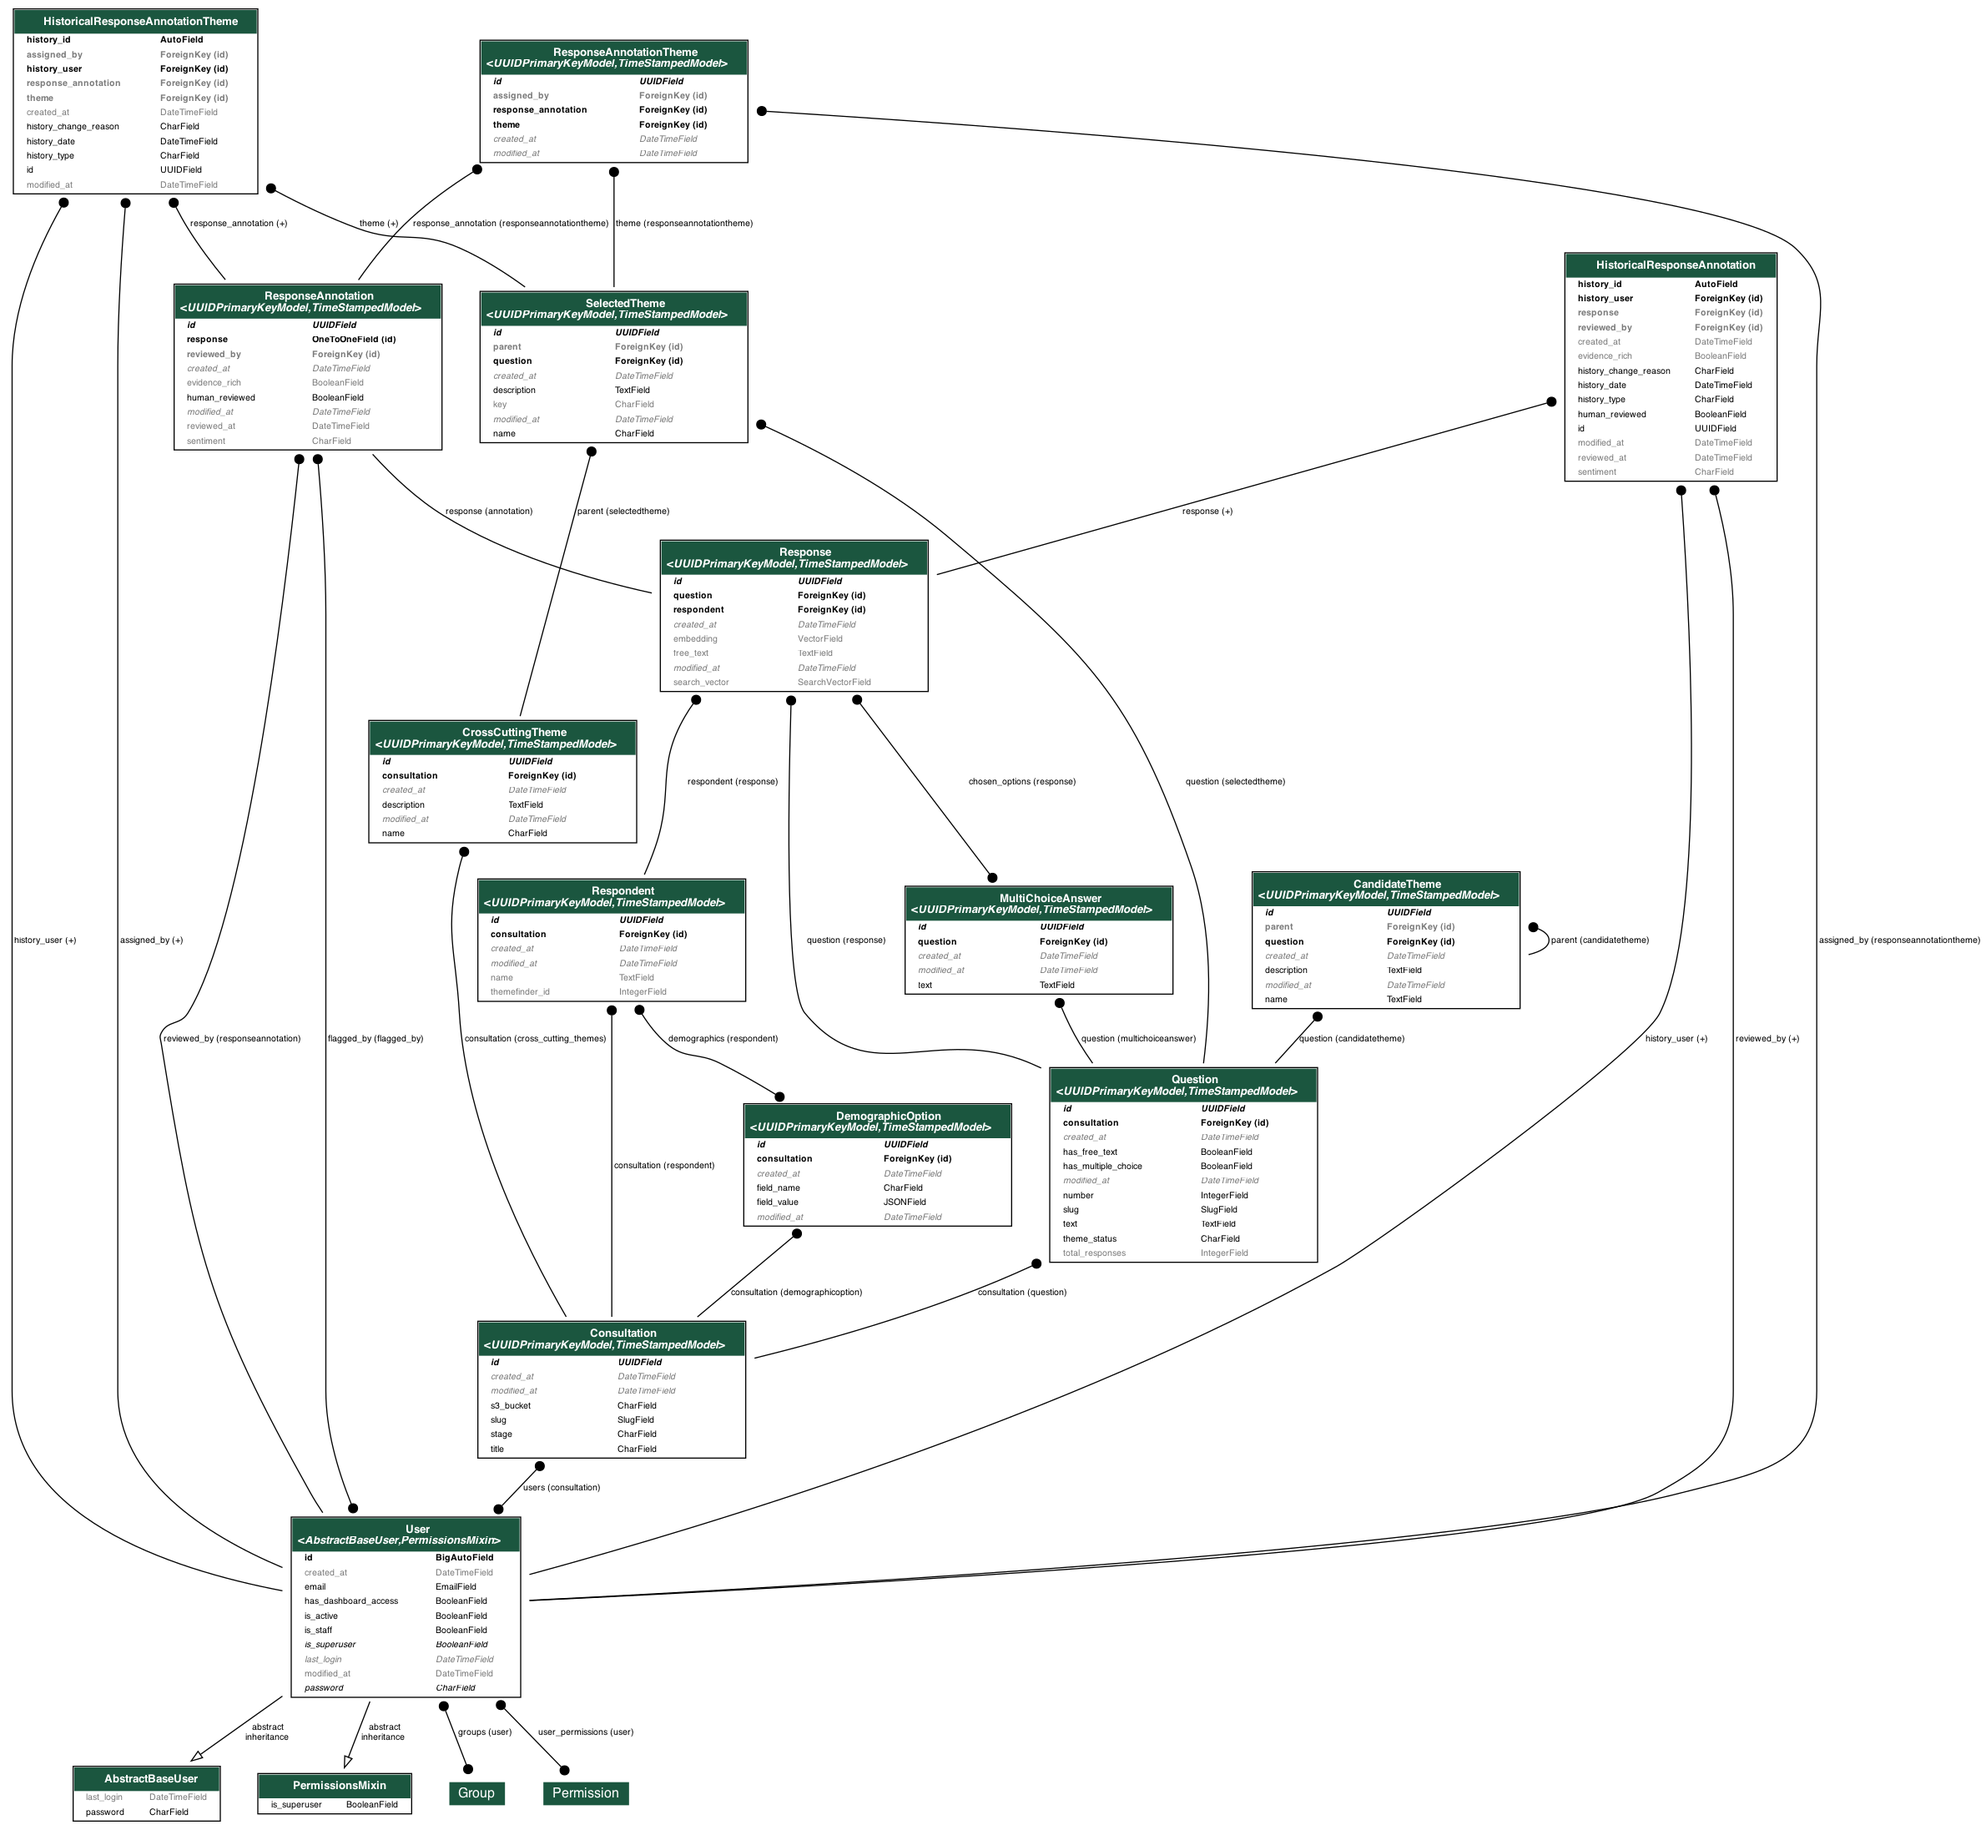
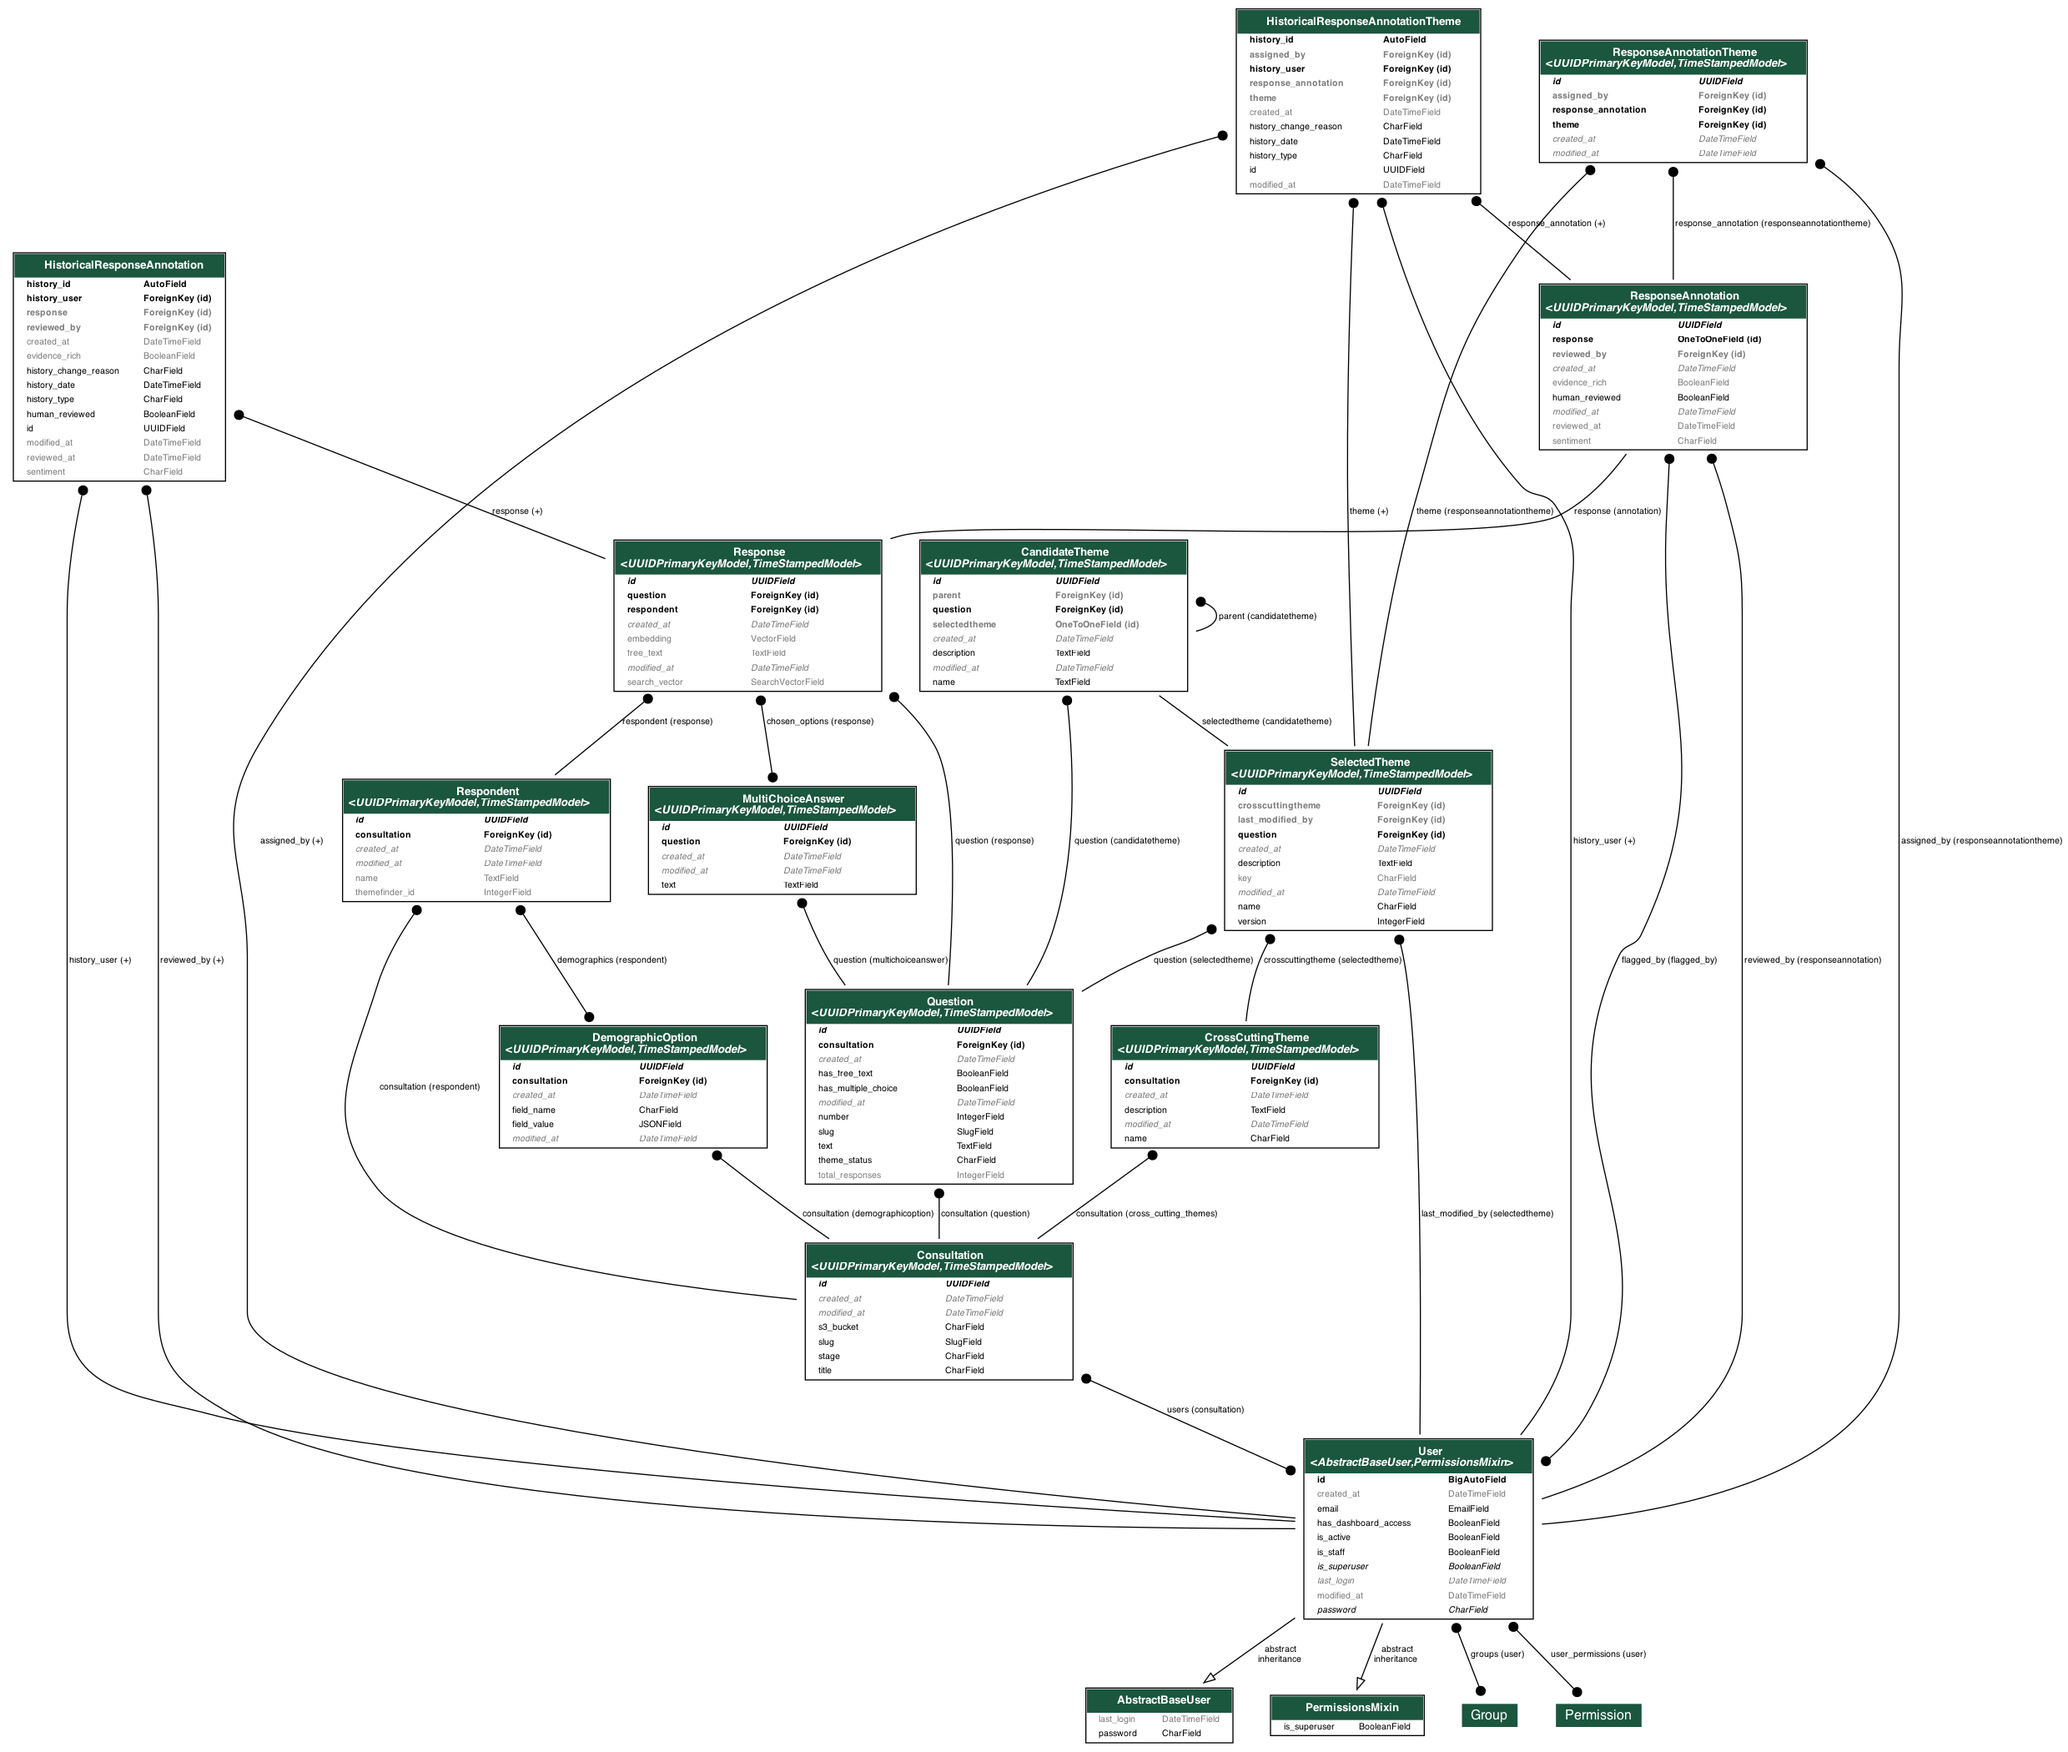
feat: Add new SelectedTheme fields to support Theme Sign Off
I have also added `selectedtheme` to the CandidateTheme model so
that it's easier to represent when a candidate theme is selected.
When the selected them is deselected (deleted from the database),
the `selectedtheme` will revert to null and that's how we can tell
when it's been selected or not.

diff --git a/consultation_analyser/consultations/models.py b/consultation_analyser/consultations/models.py
@@ -239,23 +239,6 @@ class DemographicOption(UUIDPrimaryKeyModel, TimeStampedModel):
         return f"{self.field_name}={self.field_value}"
 
 
-class CandidateTheme(UUIDPrimaryKeyModel, TimeStampedModel):
-    """AI-generated (candidate) themes for a question"""
-
-    question = models.ForeignKey(Question, on_delete=models.CASCADE)
-    name = models.TextField()
-    description = models.TextField()
-    parent = models.ForeignKey("self", on_delete=models.SET_NULL, null=True, blank=True)
-
-    class Meta(UUIDPrimaryKeyModel.Meta, TimeStampedModel.Meta):
-        indexes = [
-            models.Index(fields=["question"]),
-        ]
-
-    def __str__(self):
-        return self.name
-
-
 class SelectedTheme(UUIDPrimaryKeyModel, TimeStampedModel):
     """Themes that have been selected during / after theme sign-off"""
 
@@ -263,7 +246,11 @@ class SelectedTheme(UUIDPrimaryKeyModel, TimeStampedModel):
     name = models.CharField(max_length=256)
     description = models.TextField()
     key = models.CharField(max_length=128, null=True, blank=True)
-    parent = models.ForeignKey("CrossCuttingTheme", on_delete=models.CASCADE, null=True, blank=True)
+    crosscuttingtheme = models.ForeignKey(
+        "CrossCuttingTheme", on_delete=models.CASCADE, null=True, blank=True
+    )
+    version = models.IntegerField(default=1)
+    last_modified_by = models.ForeignKey(User, on_delete=models.SET_NULL, null=True, blank=True)
 
     class Meta(UUIDPrimaryKeyModel.Meta, TimeStampedModel.Meta):
         constraints = [
@@ -273,6 +260,26 @@ class SelectedTheme(UUIDPrimaryKeyModel, TimeStampedModel):
                 condition=models.Q(key__isnull=False),
             ),
         ]
+        indexes = [
+            models.Index(fields=["question"]),
+        ]
+
+    def __str__(self):
+        return self.name
+
+
+class CandidateTheme(UUIDPrimaryKeyModel, TimeStampedModel):
+    """AI-generated (candidate) themes for a question"""
+
+    question = models.ForeignKey(Question, on_delete=models.CASCADE)
+    name = models.TextField()
+    description = models.TextField()
+    parent = models.ForeignKey("self", on_delete=models.SET_NULL, null=True, blank=True)
+    selectedtheme = models.OneToOneField(
+        SelectedTheme, on_delete=models.SET_NULL, null=True, blank=True
+    )
+
+    class Meta(UUIDPrimaryKeyModel.Meta, TimeStampedModel.Meta):
         indexes = [
             models.Index(fields=["question"]),
         ]

diff --git a/consultation_analyser/consultations/migrations/0081_rename_parent_selectedtheme_crosscuttingtheme_and_more.py b/consultation_analyser/consultations/migrations/0081_rename_parent_selectedtheme_crosscuttingtheme_and_more.py
@@ -1,0 +1,45 @@
+# Generated by Django 5.2.6 on 2025-10-10 15:16
+
+import django.db.models.deletion
+from django.conf import settings
+from django.db import migrations, models
+
+
+class Migration(migrations.Migration):
+    dependencies = [
+        ("consultations", "0080_rename_theme_selectedtheme_and_more"),
+        migrations.swappable_dependency(settings.AUTH_USER_MODEL),
+    ]
+
+    operations = [
+        migrations.RenameField(
+            model_name="selectedtheme",
+            old_name="parent",
+            new_name="crosscuttingtheme",
+        ),
+        migrations.AddField(
+            model_name="candidatetheme",
+            name="selectedtheme",
+            field=models.OneToOneField(
+                blank=True,
+                null=True,
+                on_delete=django.db.models.deletion.SET_NULL,
+                to="consultations.selectedtheme",
+            ),
+        ),
+        migrations.AddField(
+            model_name="selectedtheme",
+            name="last_modified_by",
+            field=models.ForeignKey(
+                blank=True,
+                null=True,
+                on_delete=django.db.models.deletion.SET_NULL,
+                to=settings.AUTH_USER_MODEL,
+            ),
+        ),
+        migrations.AddField(
+            model_name="selectedtheme",
+            name="version",
+            field=models.IntegerField(default=1),
+        ),
+    ]
